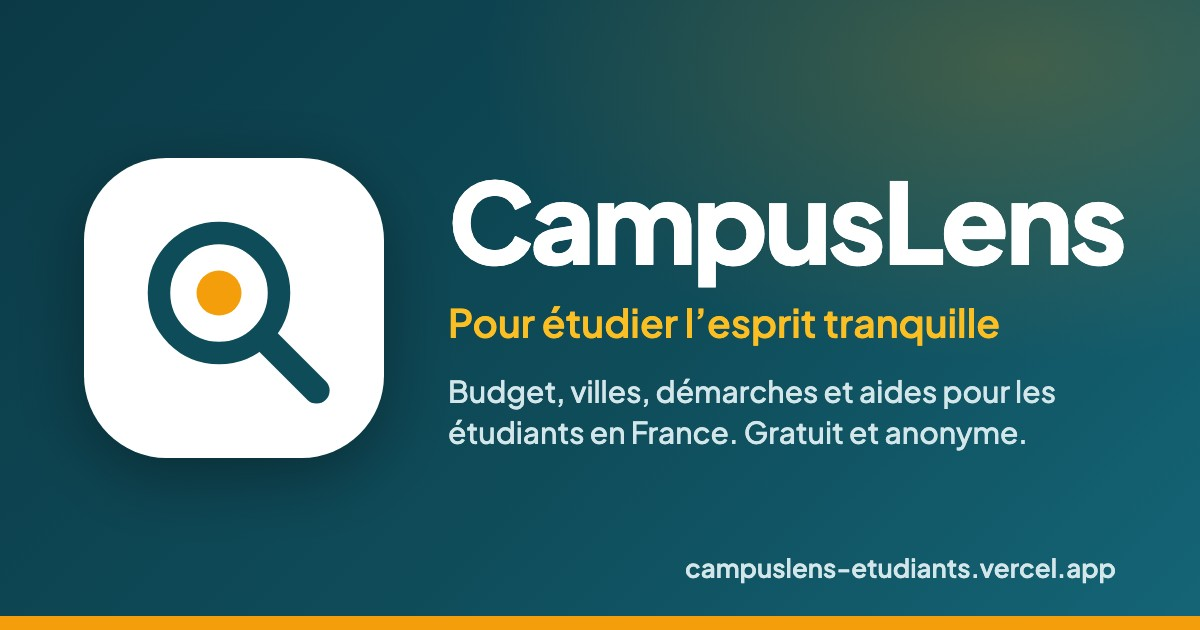
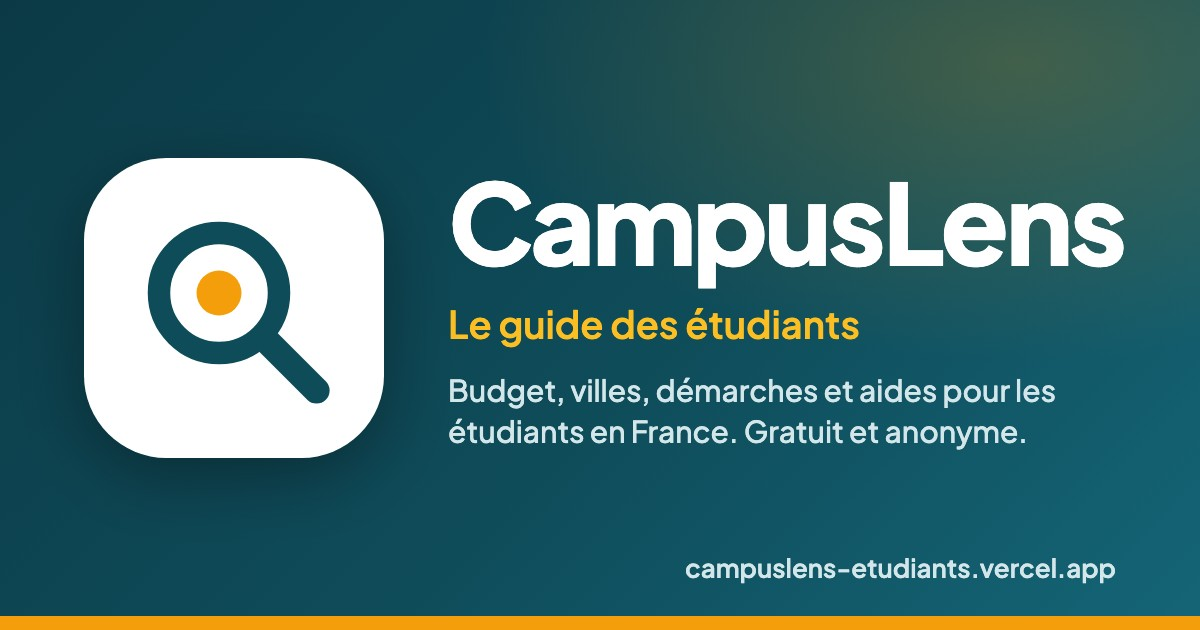
Accueil : essai de l'accroche « Le guide des étudiants » au-dessus du titre (aperçu des liens et image alignés)

diff --git a/frontend/index.html b/frontend/index.html
@@ -14,7 +14,7 @@
     <meta property="og:type" content="website" />
     <meta property="og:site_name" content="CampusLens" />
     <meta property="og:locale" content="fr_FR" />
-    <meta property="og:title" content="CampusLens — Pour étudier l’esprit tranquille" />
+    <meta property="og:title" content="CampusLens — Le guide des étudiants" />
     <meta
       property="og:description"
       content="Budget, villes, démarches et aides pour les étudiants en France. Gratuit et anonyme."
@@ -26,10 +26,10 @@
     <meta property="og:image:height" content="630" />
     <meta
       property="og:image:alt"
-      content="Logo CampusLens : une loupe, et l’accroche « Pour étudier l’esprit tranquille »"
+      content="Logo CampusLens : une loupe, et l’accroche « Le guide des étudiants »"
     />
     <meta name="twitter:card" content="summary_large_image" />
-    <meta name="twitter:title" content="CampusLens — Pour étudier l’esprit tranquille" />
+    <meta name="twitter:title" content="CampusLens — Le guide des étudiants" />
     <meta
       name="twitter:description"
       content="Budget, villes, démarches et aides pour les étudiants en France. Gratuit et anonyme."

diff --git a/frontend/tests/accueil.test.jsx b/frontend/tests/accueil.test.jsx
@@ -61,13 +61,13 @@ describe('Page Accueil', () => {
     await screen.findByText('Garantie Visale');
   });
 
-  it('le bandeau : grand titre « Les repères pour bien vivre ses études en France », accroche « Pour étudier l’esprit tranquille » en petit', async () => {
+  it('le bandeau : grand titre « Les repères pour bien vivre ses études en France », accroche « Le guide des étudiants » en petit', async () => {
     simulerApi({ '/aides': AIDES_ACCUEIL });
     rendreApp('/');
     const titre = screen.getByRole('heading', { level: 1 });
     expect(titre).toHaveTextContent('Les repères pour bien vivre ses études en France');
-    expect(titre).not.toHaveTextContent('Pour étudier l’esprit tranquille'); // l'accroche n'est PAS le titre
-    const accroche = screen.getByText('Pour étudier l’esprit tranquille');
+    expect(titre).not.toHaveTextContent('Le guide des étudiants'); // l'accroche n'est PAS le titre
+    const accroche = screen.getByText('Le guide des étudiants');
     expect(accroche.tagName).toBe('P');
     expect(accroche).toHaveClass('hero-accroche');
     // La photo décrit la scène et réserve sa place (dimensions) : pas de saut de page au chargement.

diff --git a/frontend/src/pages/Accueil.jsx b/frontend/src/pages/Accueil.jsx
@@ -59,7 +59,7 @@ export default function Accueil() {
           </div>
           <div className="hero-contenu">
             <div className="hero-haut">
-              <p className="hero-accroche">Pour étudier l’esprit tranquille</p>
+              <p className="hero-accroche">Le guide des étudiants</p>
               <h1 id="titre-hero">Les repères pour bien vivre ses études en France</h1>
             </div>
             <div className="hero-bas">
